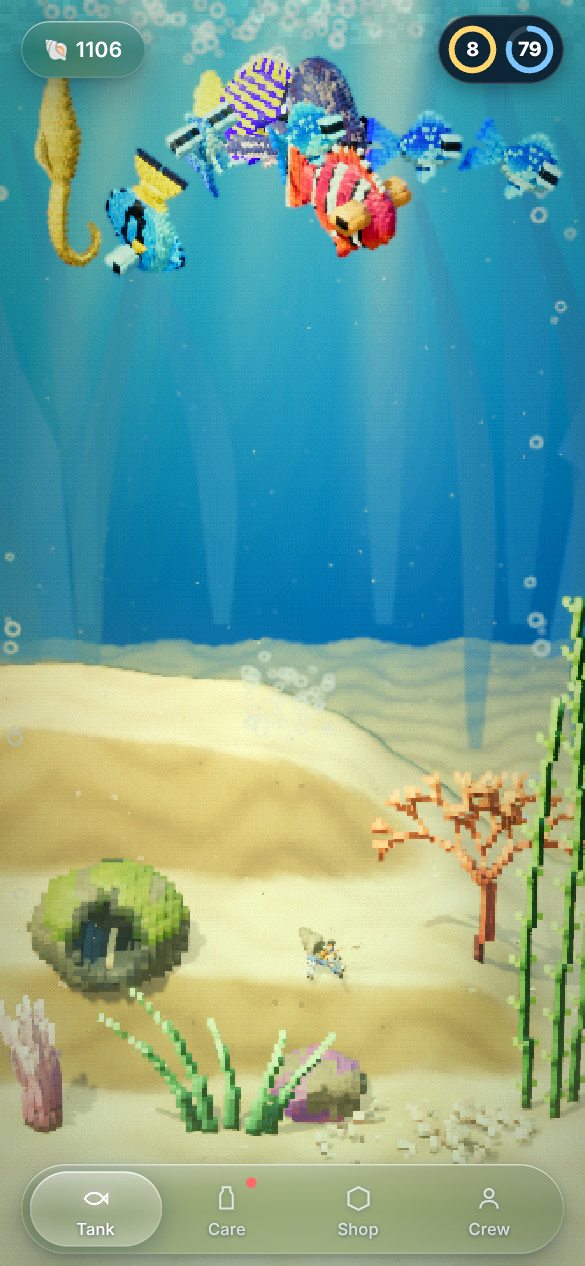
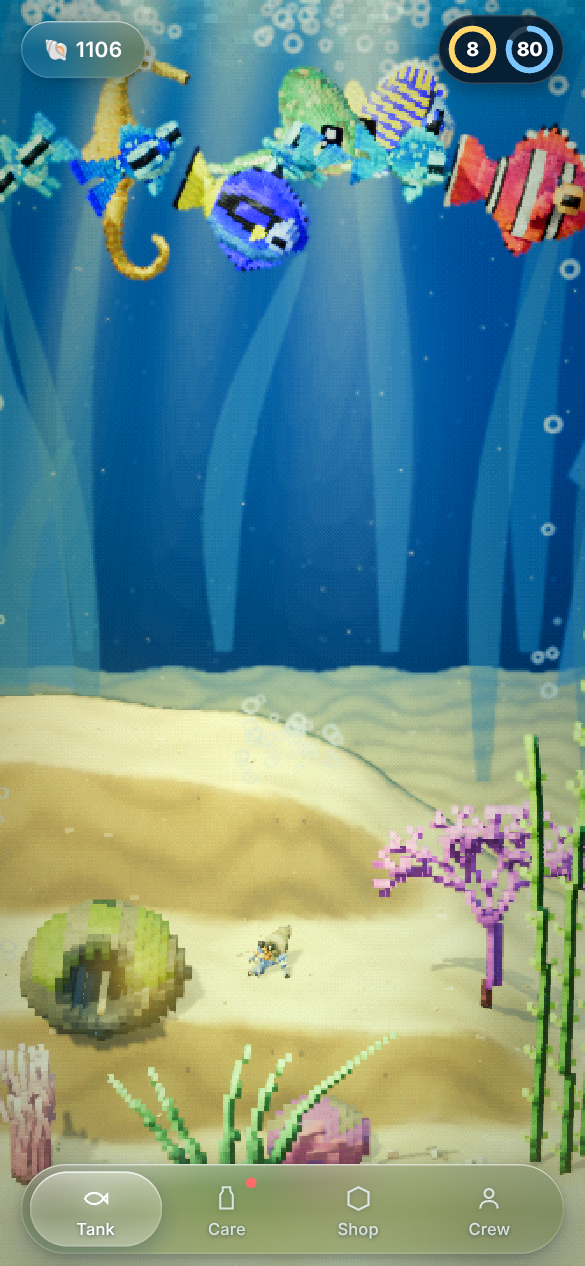
Graphics pass three: the banks fall into shade and take light on top, far sand sinks into the water's color, every voxel thing darkens at its edges
Claude-Session: https://claude.ai/code/session_01AcX8wdAS6t2Ysits5NhkSb

diff --git a/web/src/w3/env.js b/web/src/w3/env.js
@@ -210,7 +210,11 @@ export function buildEnvironment() {
           outgoingLight *= mix(1.0, 0.93 + 0.1 * rip, flatK * near);
           // contact shadow: the sand darkens under and just round each decoration standing on it
           float ao = 1.0; for (int i = 0; i < 40; i++) { vec4 q = uAO[i]; if (q.w <= 0.0) continue; float dd = length(w - q.xy) / q.w; ao *= 1.0 - 0.42 * (1.0 - smoothstep(0.35, 1.0, dd)) * q.z; }
-          outgoingLight *= ao; }
+          outgoingLight *= ao;
+          // the banks: their faces fall into shade, their tops take the light, so the sand reads as hills and not one flat sheet
+          outgoingLight *= mix(0.84, 1.0, flatK);
+          // depth: the sand further from the glass sinks a little into the water's color (the same thing fog does, started sooner)
+          float farK = smoothstep(1.5, -3.6, vCauW.z); outgoingLight = mix(outgoingLight, outgoingLight * vec3(0.78, 0.9, 1.0), farK * 0.45); }
         #include <opaque_fragment>`); }; bedMat.customProgramCacheKey = () => 'bed-caustics'; }
   const fl = new THREE.Mesh(bedGeo, bedMat);
   // the sun is in front: the banks' own shadows would fall behind them, out of sight, so the sand is left out of the shadow pass

diff --git a/web/src/w3/voxshade.js b/web/src/w3/voxshade.js
@@ -39,7 +39,9 @@ export function voxShading(mat, { sway = false, boost = 1 } = {}) {
         vec4 mvPosition = viewMatrix * wp;
         gl_Position = projectionMatrix * mvPosition;`);
     sh.fragmentShader = sh.fragmentShader.replace('#include <common>', '#include <common>\nuniform vec3 uBoost; uniform float uBoostK;')
-      .replace('#include <opaque_fragment>', 'outgoingLight += diffuseColor.rgb * uBoost * uBoostK;\n#include <opaque_fragment>');
+      .replace('#include <opaque_fragment>', `outgoingLight += diffuseColor.rgb * uBoost * uBoostK;
+        { float fres = pow(1.0 - clamp(dot(normalize(vViewPosition), normal), 0.0, 1.0), 3.0); outgoingLight *= 1.0 - 0.2 * fres; }      // the edges of each thing fall off into shade: round, solid, not a flat cut-out
+        #include <opaque_fragment>`);
   };
   return mat;
 }

diff --git a/web/sw.js b/web/sw.js
@@ -1,5 +1,5 @@
 // Caches the app shell so the game opens instantly and keeps working without a connection (solo play).
-const V = 'ourtank-v317', SHELL = ['/', '/index.html', '/manifest.webmanifest', '/icon-192.png'];
+const V = 'ourtank-v318', SHELL = ['/', '/index.html', '/manifest.webmanifest', '/icon-192.png'];
 self.addEventListener('install', (e) => { e.waitUntil(caches.open(V).then((c) => c.addAll(SHELL)).then(() => self.skipWaiting())); });
 self.addEventListener('activate', (e) => { e.waitUntil(caches.keys().then((ks) => Promise.all(ks.filter((k) => k !== V).map((k) => caches.delete(k)))).then(() => self.clients.claim())); });
 self.addEventListener('fetch', (e) => {
